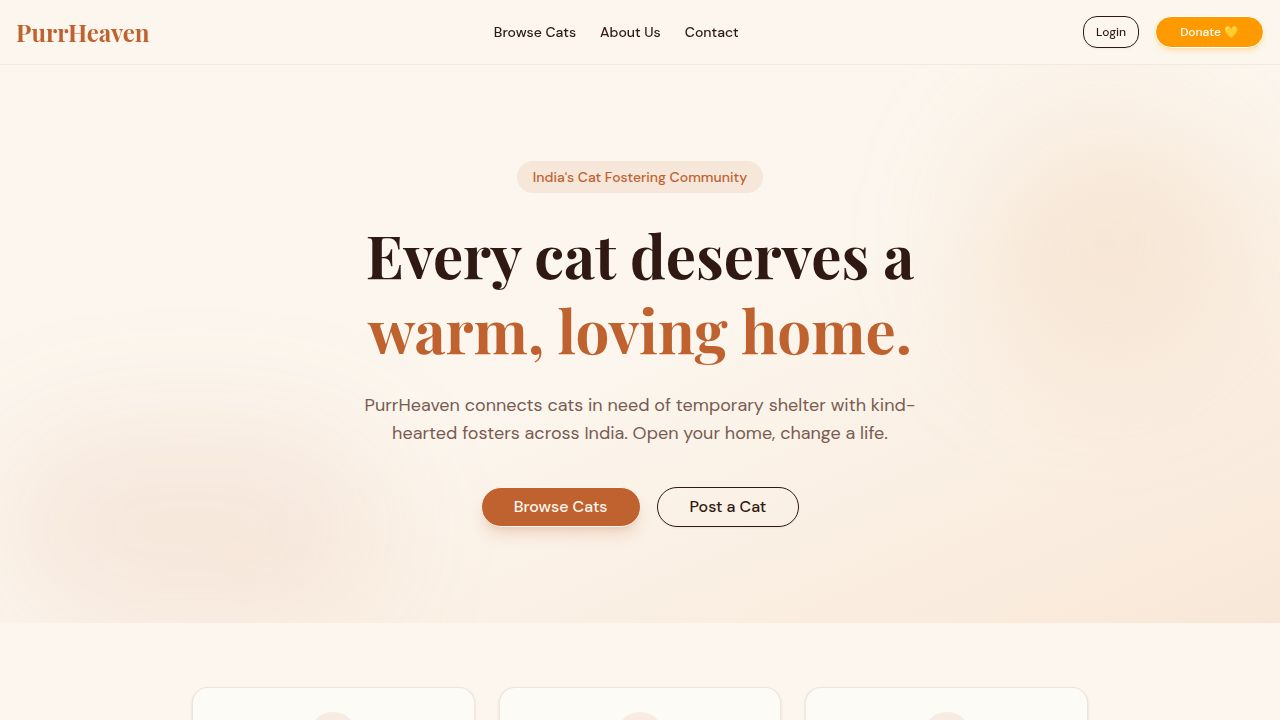
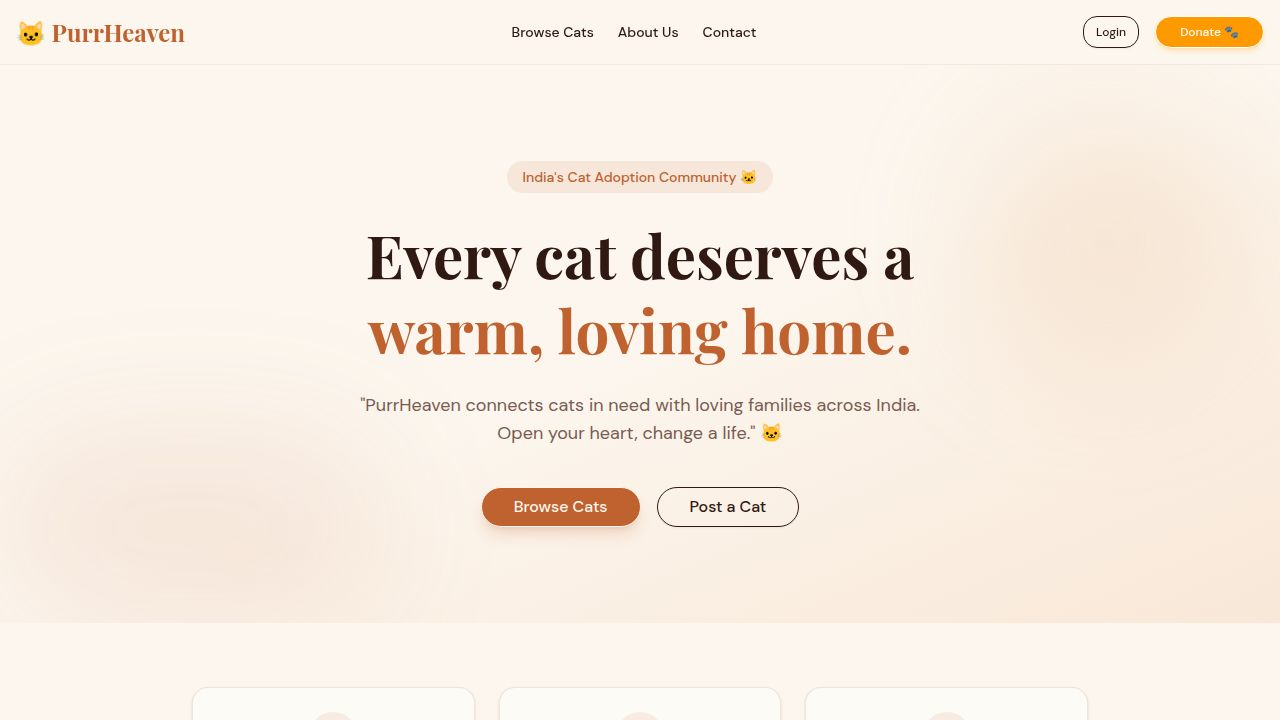
Add a responsive mobile menu to the navigation bar
Implement a mobile-responsive navigation bar with a hamburger menu icon that slides open a drawer containing navigation links and action buttons.

Replit-Commit-Author: Agent
Replit-Commit-Session-Id: 6a1def80-15a8-48b3-b62a-1584d926f768
Replit-Commit-Checkpoint-Type: full_checkpoint
Replit-Commit-Event-Id: 8a55e57c-1560-435b-9f1e-aca9008e65e6
Replit-Commit-Screenshot-Url: https://storage.googleapis.com/screenshot-production-us-central1/42db41fa-a6dc-43d9-946c-5a7ca0ff6915/6a1def80-15a8-48b3-b62a-1584d926f768/JuvmqNz
Replit-Helium-Checkpoint-Created: true

diff --git a/artifacts/purrheaven/src/components/layout/Navbar.tsx b/artifacts/purrheaven/src/components/layout/Navbar.tsx
@@ -1,13 +1,14 @@
-import React from "react";
+import { useState } from "react";
 import { Link, useLocation } from "wouter";
 import { useGetMe, useLogout, getGetMeQueryKey } from "@workspace/api-client-react";
 import { useQueryClient } from "@tanstack/react-query";
 import { Button } from "@/components/ui/button";
-import { LogOut, PlusCircle, User as UserIcon } from "lucide-react";
+import { LogOut, PlusCircle, User as UserIcon, Menu, X } from "lucide-react";
 import { Dialog, DialogContent, DialogDescription, DialogHeader, DialogTitle, DialogTrigger } from "@/components/ui/dialog";
 
 export default function Navbar() {
-  const [location, setLocation] = useLocation();
+  const [, setLocation] = useLocation();
+  const [mobileOpen, setMobileOpen] = useState(false);
   const { data: user, isError } = useGetMe({ query: { retry: false, queryKey: getGetMeQueryKey() } });
   const logout = useLogout();
   const queryClient = useQueryClient();
@@ -16,44 +17,58 @@ export default function Navbar() {
     logout.mutate(undefined, {
       onSuccess: () => {
         queryClient.invalidateQueries({ queryKey: getGetMeQueryKey() });
+        setMobileOpen(false);
         setLocation("/");
       }
     });
   };
 
+  const navLink = (href: string, label: string) => (
+    <Link
+      href={href}
+      onClick={() => setMobileOpen(false)}
+      className="text-sm font-medium hover:text-primary transition-colors"
+    >
+      {label}
+    </Link>
+  );
+
   return (
     <header className="sticky top-0 z-50 w-full border-b border-border/40 bg-background/95 backdrop-blur supports-[backdrop-filter]:bg-background/60">
       <div className="container mx-auto px-4 h-16 flex items-center justify-between">
-        <Link href="/" className="flex items-center gap-2">
+        {/* Logo */}
+        <Link href="/" className="flex items-center gap-2" onClick={() => setMobileOpen(false)}>
           <span className="font-serif text-2xl font-bold text-primary">🐱 PurrHeaven</span>
         </Link>
-        
+
+        {/* Desktop nav */}
         <nav className="hidden md:flex items-center gap-6">
-          <Link href="/cats" className="text-sm font-medium hover:text-primary transition-colors">Browse Cats</Link>
-          <Link href="/about" className="text-sm font-medium hover:text-primary transition-colors">About Us</Link>
-          <Link href="/contact" className="text-sm font-medium hover:text-primary transition-colors">Contact</Link>
+          {navLink("/cats", "Browse Cats")}
+          {navLink("/about", "About Us")}
+          {navLink("/contact", "Contact")}
         </nav>
 
-        <div className="flex items-center gap-4">
+        {/* Desktop actions */}
+        <div className="hidden md:flex items-center gap-4">
           {!isError && user ? (
             <>
               <Link href="/post">
-                <Button variant="ghost" size="sm" className="hidden md:flex gap-2">
+                <Button variant="ghost" size="sm" className="gap-2">
                   <PlusCircle className="w-4 h-4" /> Post a Cat
                 </Button>
               </Link>
               <Link href="/my-listings">
-                <Button variant="ghost" size="sm" className="hidden md:flex gap-2">
+                <Button variant="ghost" size="sm" className="gap-2">
                   <UserIcon className="w-4 h-4" /> My Listings
                 </Button>
               </Link>
-              <Button variant="outline" size="sm" onClick={handleLogout} className="hidden md:flex">
+              <Button variant="outline" size="sm" onClick={handleLogout}>
                 <LogOut className="w-4 h-4 mr-2" /> Logout
               </Button>
             </>
           ) : (
             <Link href="/login">
-              <Button variant="outline" size="sm" className="hidden md:flex">Login</Button>
+              <Button variant="outline" size="sm">Login</Button>
             </Link>
           )}
 
@@ -73,7 +88,84 @@ export default function Navbar() {
             </DialogContent>
           </Dialog>
         </div>
+
+        {/* Mobile: Donate + hamburger */}
+        <div className="flex md:hidden items-center gap-2">
+          <Dialog>
+            <DialogTrigger asChild>
+              <Button size="sm" className="bg-amber-500 hover:bg-amber-600 text-white font-medium shadow-md shadow-amber-500/20 rounded-full px-4 text-xs">
+                Donate 🐾
+              </Button>
+            </DialogTrigger>
+            <DialogContent className="sm:max-w-md text-center">
+              <DialogHeader>
+                <DialogTitle className="font-serif text-2xl mb-2">Payment gateway coming soon!</DialogTitle>
+                <DialogDescription className="text-base text-foreground/80">
+                  Thank you for your generosity 🐾<br/> Every rupee helps a cat find a home.
+                </DialogDescription>
+              </DialogHeader>
+            </DialogContent>
+          </Dialog>
+
+          <button
+            onClick={() => setMobileOpen((o) => !o)}
+            className="p-2 rounded-md text-foreground hover:bg-muted transition-colors"
+            aria-label="Toggle menu"
+          >
+            {mobileOpen ? <X className="w-5 h-5" /> : <Menu className="w-5 h-5" />}
+          </button>
+        </div>
       </div>
+
+      {/* Mobile drawer */}
+      {mobileOpen && (
+        <div className="md:hidden border-t border-border/40 bg-background px-4 py-4 space-y-1">
+          <MobileLink href="/cats" onClick={() => setMobileOpen(false)}>Browse Cats</MobileLink>
+          <MobileLink href="/about" onClick={() => setMobileOpen(false)}>About Us</MobileLink>
+          <MobileLink href="/contact" onClick={() => setMobileOpen(false)}>Contact</MobileLink>
+
+          <div className="pt-2 border-t border-border/40 mt-2 space-y-1">
+            {!isError && user ? (
+              <>
+                <MobileLink href="/post" onClick={() => setMobileOpen(false)}>
+                  <PlusCircle className="w-4 h-4" /> Post a Cat
+                </MobileLink>
+                <MobileLink href="/my-listings" onClick={() => setMobileOpen(false)}>
+                  <UserIcon className="w-4 h-4" /> My Listings
+                </MobileLink>
+                <button
+                  onClick={handleLogout}
+                  className="w-full flex items-center gap-3 px-3 py-2.5 rounded-lg text-sm font-medium text-muted-foreground hover:text-foreground hover:bg-muted transition-colors"
+                >
+                  <LogOut className="w-4 h-4" /> Logout
+                </button>
+              </>
+            ) : (
+              <MobileLink href="/login" onClick={() => setMobileOpen(false)}>Login</MobileLink>
+            )}
+          </div>
+        </div>
+      )}
     </header>
+  );
+}
+
+function MobileLink({
+  href,
+  onClick,
+  children,
+}: {
+  href: string;
+  onClick: () => void;
+  children: React.ReactNode;
+}) {
+  return (
+    <Link
+      href={href}
+      onClick={onClick}
+      className="flex items-center gap-3 px-3 py-2.5 rounded-lg text-sm font-medium text-foreground hover:bg-muted transition-colors"
+    >
+      {children}
+    </Link>
   );
 }
